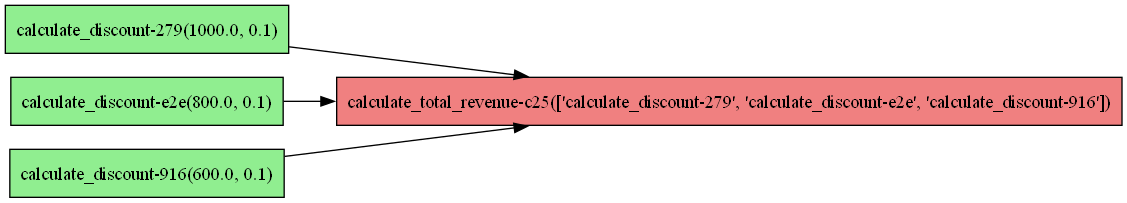
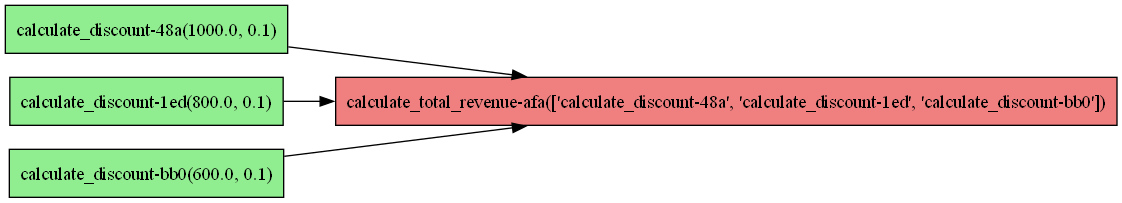
Removes complexity of adding a master_dag_id to the tasks (append it when needed (only for external communication (redis)))

diff --git a/src/Executor.py b/src/Executor.py
@@ -26,36 +26,36 @@ class AbstractExecutor(ABC):
         try:
             while not self.shutdown_flag.is_set():
                 # 1. DOWNLOAD DEPENDENCIES
-                self.log(task.id.get_full_id(), f"1) Grabbing Dependencies...")
+                self.log(task.id.get_full_id_in_dag(self.subdag), f"1) Grabbing Dependencies...")
                 task_dependencies: dict[str, Any] = {}
                 for dependency_task in task.upstream_nodes:
-                    task_output = intermediate_storage.IntermediateStorage.get(dependency_task.id.get_full_id())
-                    if task_output is None: raise Exception(f"[BUG] Task {dependency_task.id.get_full_id()}'s data is not available")
+                    task_output = intermediate_storage.IntermediateStorage.get(self.subdag.get_dag_task_id(dependency_task))
+                    if task_output is None: raise Exception(f"[BUG] Task {dependency_task.id.get_full_id_in_dag(self.subdag)}'s data is not available")
                     task_dependencies[dependency_task.id.get_full_id()] = cloudpickle.loads(task_output) # type: ignore
                 
                 # 2. EXECUTE TASK
-                self.log(task.id.get_full_id(), f"2) Executing...")
+                self.log(task.id.get_full_id_in_dag(self.subdag), f"2) Executing...")
                 task_result = task.invoke(dependencies=task_dependencies)
-                upload_result = intermediate_storage.IntermediateStorage.set(task.id.get_full_id(), cloudpickle.dumps(task_result))
-                if not upload_result: raise Exception(f"[BUG] Task {task.id.get_full_id()}'s data could not be uploaded to Redis (set() failed)")
+                upload_result = intermediate_storage.IntermediateStorage.set(self.subdag.get_dag_task_id(task), cloudpickle.dumps(task_result))
+                if not upload_result: raise Exception(f"[BUG] Task {task.id.get_full_id_in_dag(self.subdag)}'s data could not be uploaded to Redis (set() failed)")
 
                 if self.shutdown_flag.is_set(): break
 
                 if len(task.downstream_nodes) == 0: 
-                    self.log(task.id.get_full_id(), f"Last Task finished. Shutting down executor...")
+                    self.log(task.id.get_full_id_in_dag(self.subdag), f"Last Task finished. Shutting down executor...")
                     self.shutdown_flag.set()
                     break
 
                 # 3. HANDLE FAN-OUT (1-1 or 1-N)
-                self.log(task.id.get_full_id(), f"3) Handle Fan-Out {task.id.get_full_id()} => [{[t.id.get_full_id() for t in task.downstream_nodes]}]")
+                self.log(task.id.get_full_id_in_dag(self.subdag), f"3) Handle Fan-Out {task.id.get_full_id_in_dag(self.subdag)} => [{[t.id.get_full_id_in_dag(self.subdag) for t in task.downstream_nodes]}]")
                 ready_downstream: list[dag_task_node.DAGTaskNode] = []
                 for downstream_task in task.downstream_nodes:
                     downstream_task_total_dependencies = len(self.subdag.get_node_by_id(downstream_task.id).upstream_nodes)
                     if downstream_task_total_dependencies == 1: # {task} was the only dependency
                         ready_downstream.append(downstream_task)
                     else:
-                        dependencies_met = intermediate_storage.IntermediateStorage.increment_and_get(f"dependency-counter-{downstream_task}")
-                        self.log(task.id.get_full_id(), f"Incremented DC of {downstream_task.id.get_full_id()} ({dependencies_met}/{downstream_task_total_dependencies})")
+                        dependencies_met = intermediate_storage.IntermediateStorage.increment_and_get(f"dependency-counter-{downstream_task.id.get_full_id_in_dag(self.subdag)}")
+                        self.log(task.id.get_full_id_in_dag(self.subdag), f"Incremented DC of {downstream_task.id.get_full_id_in_dag(self.subdag)} ({dependencies_met}/{downstream_task_total_dependencies})")
                         if dependencies_met == downstream_task_total_dependencies:
                             ready_downstream.append(downstream_task)
                 
@@ -75,18 +75,18 @@ class AbstractExecutor(ABC):
                         asyncio.create_task(self.delegate(self.subdag.create_subdag(task)))
                     
                     # Continue with one task in this executor
-                    self.log(task.id.get_full_id(), f"Continuing with first of multiple downstream tasks: {continuation_task}")
+                    self.log(task.id.get_full_id_in_dag(self.subdag), f"Continuing with first of multiple downstream tasks: {continuation_task}")
                     task = self.subdag.get_node_by_id(ready_downstream[0].id) # type: ignore downstream_task_id)
                     continue
                 else:
-                    self.log(task.id.get_full_id(), f"No ready downstream tasks found. Shutting down executor...")
+                    self.log(task.id.get_full_id_in_dag(self.subdag), f"No ready downstream tasks found. Shutting down executor...")
                     break  # Give up
         except Exception as e:
-            self.log(task.id.get_full_id(), f"Error: {str(e)}") # type: ignore
+            self.log(task.id.get_full_id_in_dag(self.subdag), f"Error: {str(e)}") # type: ignore
             raise e
 
         # Cleanup
-        self.log(task.id.get_full_id(), f"Executor shut down!")
+        self.log(task.id.get_full_id_in_dag(self.subdag), f"Executor shut down!")
 
     @abstractmethod
     async def delegate(self, subsubdag: dag.DAG): pass
@@ -123,7 +123,7 @@ class FlaskExecutor(AbstractExecutor):
         '''
         Each invocation is done inside a new Coroutine without blocking the owner Thread
         '''
-        self.log(subsubdag.root_node.id.get_full_id(), f"Invoking remote executor for subsubdag with {len(subsubdag.root_nodes)} root nodes | First Node: {subsubdag.root_node}")
+        self.log(subsubdag.root_node.id.get_full_id_in_dag(subsubdag), f"Invoking remote executor for subsubdag with {len(subsubdag.root_nodes)} root nodes | First Node: {subsubdag.root_node}")
         async with aiohttp.ClientSession() as session:
             async with await session.post(
                 self.flask_server_address, data=cloudpickle.dumps(subsubdag), headers={'Content-Type': 'application/octet-stream'}

diff --git a/src/DAG.py b/src/DAG.py
@@ -26,7 +26,7 @@ class DAG:
             self.root_nodes: list[dag_task_node.DAGTaskNode] = DAG._find_root_nodes(self.all_nodes)
         # Find nodes by going backwards until root nodes
         # Add the DAG id to each task
-        self._update_task_ids()
+        self._optimize_task_metadata()
 
         if len(self.root_nodes) == 0: raise Exception(f"[BUG] DAG with sink node: {sink_node.id.get_full_id()} has 0 root notes!")
         self.root_node = self.root_nodes[0]
@@ -58,35 +58,31 @@ class DAG:
             return res
         return asyncio.run(internal())
 
+    def get_dag_task_id(self, dag_task_node: dag_task_node.DAGTaskNode):
+        return f"{dag_task_node.id.get_full_id()}-{self.master_dag_id}"
+
     async def _wait_for_final_result(self):
         # Asynchronously poll Storage for final result
         while True:
-            final_result = intermediate_storage.IntermediateStorage.get(self.sink_node.id.get_full_id())
+            final_result = intermediate_storage.IntermediateStorage.get(self.get_dag_task_id(self.sink_node))
             if final_result is not None:
                 final_result = cloudpickle.loads(final_result) # type: ignore
                 print(f"Final Result Ready: ({self.sink_node.id.get_full_id()}) => {final_result} | Type: ({type(final_result)})")
                 return final_result
             await asyncio.sleep(self._FINAL_RESULT_POLLING_TIME_S)
 
-    def _update_task_ids(self):
-        ''' Assumes the nodes received are clones '''
-        for old_key, node in list(self.all_nodes.items()): # Use list() to create a copy to allow mutations while iterating
-            if node.id.dag_id:
-                return # Assume all other nodes were already converted
-
-            node.id.dag_id = self.master_dag_id
-            self.all_nodes[node.id.get_full_id()] = node # Add the updated node to the dictionary with the new key
-            del self.all_nodes[old_key] # Remove the old key from the dictionary
-    
+    def _optimize_task_metadata(self):
+        ''' Reduce the {DAGTaskNode} by just their IDs to serve as placeholders for the future data '''
+        for _, node in list(self.all_nodes.items()): # Use list() to create a copy to allow mutations while iterating
             # Optimize memory by replacing {DAGTaskNode} instances with their IDs (Note: Needs to be done after ALL IDs are replaced)
             # Convert func_args
             new_args = []
             for arg in node.func_args:
                 if isinstance(arg, dag_task_node.DAGTaskNode):
                     # previous for loop adds the master dag id, we need that update
-                    new_args.append(self._get_node_by_task_id(arg.id.task_id).id)
+                    new_args.append(node.id)
                 elif isinstance(arg, list) and all(isinstance(item, dag_task_node.DAGTaskNode) for item in arg):
-                    new_args.append([self._get_node_by_task_id(item.id.task_id).id for item in arg])
+                    new_args.append([item.id for item in arg])
                 else:
                     new_args.append(arg)
             
@@ -94,13 +90,11 @@ class DAG:
             new_kwargs = {}
             for key, value in node.func_kwargs.items():
                 if isinstance(value, dag_task_node.DAGTaskNode):
-                    new_kwargs[key] = self._get_node_by_task_id(value.id.task_id).id
+                    new_kwargs[key] = value.id
                 elif isinstance(value, list) and all(isinstance(item, dag_task_node.DAGTaskNode) for item in value):
-                    new_kwargs[key] = [self._get_node_by_task_id(item.id.task_id).id for item in value]
+                    new_kwargs[key] = [item.id for item in value]
                 else:
                     new_kwargs[key] = value
-
-            # print(f"Converted {node.func_name} args to {new_args} and kwargs to {new_kwargs}")
 
             node.func_args = tuple(new_args)
             node.func_kwargs = new_kwargs

diff --git a/src/dag_task_node.py b/src/dag_task_node.py
@@ -20,20 +20,21 @@ R = TypeVar('R')
 class DAGTaskNodeId:
     function_name: str
     task_id: str
-    dag_id: str | None
 
-    def __init__(self, function_name: str, task_id: str | None = None, dag_id=None):
+    def __init__(self, function_name: str, task_id: str | None = None):
         self.function_name = function_name
         self.task_id = task_id or str(uuid.uuid4())[:3]
-        self.dag_id = dag_id
 
     def get_full_id(self) -> str: 
-        dag_id_str = "" if self.dag_id is None else f"-{self.dag_id}"
-        return f"{self.function_name}{dag_id_str}-{self.task_id}"
+        return f"{self.function_name}-{self.task_id}"
+    
+    # can't be typed because or circular import error......
+    def get_full_id_in_dag(self, dag: Any) -> str: 
+        return f"{self.function_name}-{self.task_id}_{dag.master_dag_id}"
 
 class DAGTaskNode(Generic[R]):
     def __init__(self, func: Callable[..., R], args: tuple, kwargs: dict):
-        self.id: DAGTaskNodeId = DAGTaskNodeId(func.__name__, task_id=None, dag_id=None)
+        self.id: DAGTaskNodeId = DAGTaskNodeId(func.__name__, task_id=None)
         self.func_name = func.__name__
         self.func_code = func
         self.func_args = args

diff --git a/test.py b/test.py
@@ -46,7 +46,10 @@ discounted_prices = [calculate_discount(product["original_price"], discount_rate
 
 # Fan-in: Aggregate results to calculate total revenue and average price
 total_revenue = calculate_total_revenue(discounted_prices)
-# total_revenue.visualize_dag()
-result = total_revenue.compute(local=True)
 
-print(f"\nTotal Revenue: ${result}")
+total_revenue.visualize_dag()
+# result = total_revenue.compute(local=True)
+# print(f"Total Revenue: ${result}")
+
+# result2 = total_revenue.compute(local=True)
+# print(f"Total Revenue: ${result2}")
